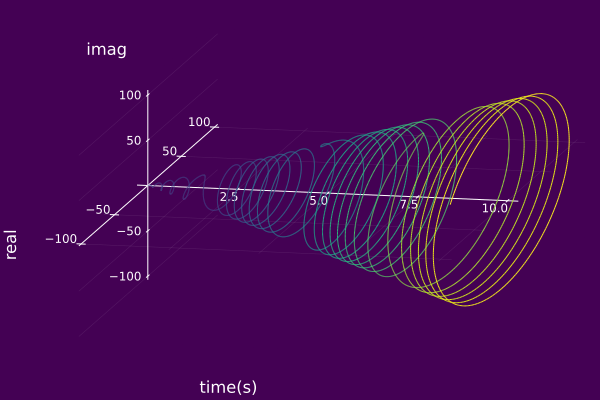
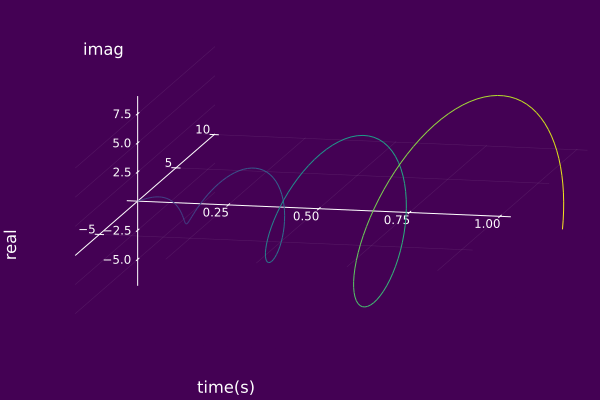
Fixed plot.md images

diff --git a/docs/src/recipes.md b/docs/src/recipes.md
@@ -32,6 +32,7 @@ The following is a list of some of the default parameters used in ISA plot recip
 | xguide           | "time(s)"     |
 | yguide           | "imag"        |
 | zguide           | "real"        |
+| ymirror          | true          |
 | background_color | cubeYF()[1]   |
 | foreground_color | :white        |
 | ymirror          | true          |
@@ -45,20 +46,19 @@ Below gives an example of setting a custom time-axis range.
 plot(ψ₀; timeaxis=0.0:0.001:10.0)
 ```
 ![](https://raw.githubusercontent.com/NMSU-ISA/ISA/master/docs/src/assets/costum0.png)
-[NEED TO FIX IMAGE ABOVE]
 
 ### Camera Position
 Below gives an example of setting a custom camera position.
 ```julia
-# change the time axis and camera angle
-plot(ψ₀; timeaxis=0.0:0.001:10.0, camera=(20,50))
+# change the camera angle
+plot(ψ₀, camera=(20,50))
 ```
 ![](https://raw.githubusercontent.com/NMSU-ISA/ISA/master/docs/src/assets/costum1.png)
 
 ### Labels
 Below is an example of modifying the axis label and location.
 ```julia
-plot(ψ₀; timeaxis=0.0:0.001:10.0, yguide="imaginary", ymirror=true)
+plot(ψ₀, yguide="imaginary", ymirror=false)
 ```
 ![](https://raw.githubusercontent.com/NMSU-ISA/ISA/master/docs/src/assets/costum2.png)
 
@@ -77,30 +77,28 @@ By default, the `plot()` function will show a 3D plot. However, the parameter `v
 
 An example of displaying the default 3D view associated with an `AMFMcomp` is given below.
 ```julia
-ψ₀ = AMFMcomp(t->t,t->25cos(t),0.0)
-plot(ψ₂, timeaxis=0.0:0.001:10.0)
+ψ₀ = AMFMcomp(t->10t,t->25cos(t),0.0)
+plot(ψ₀)
 ```
-![](https://raw.githubusercontent.com/NMSU-ISA/ISA/master/docs/src/assets/TRview.png)
+![](https://raw.githubusercontent.com/NMSU-ISA/ISA/master/docs/src/assets/default3d.png)
+
 An example of displaying the time-real plane associated with an `AMFMcomp` is given below.
 ```julia
-ψ₀ = AMFMcomp(t->t,t->25cos(t),0.0)
-plot(ψ₂, timeaxis=0.0:0.001:10.0,view="TR")
+plot(ψ₀,view="TR")
 ```
-![](https://raw.githubusercontent.com/NMSU-ISA/ISA/master/docs/src/assets/TRview.png)
+![](https://raw.githubusercontent.com/NMSU-ISA/ISA/master/docs/src/assets/TRview3d.png)
 
 An example of displaying the time-imaginary plane associated with an `AMFMcomp` is given below.
 ```julia
-ψ₀ = AMFMcomp(t->t,t->25cos(t),0.0)
-plot(ψ₂, timeaxis=0.0:0.001:10.0,view="TI")
+plot(ψ₀,view="TI")
 ```
-![](https://raw.githubusercontent.com/NMSU-ISA/ISA/master/docs/src/assets/TIview.png)
+![](https://raw.githubusercontent.com/NMSU-ISA/ISA/master/docs/src/assets/TIview3d.png)
 
 An example of displaying the real-imaginary plane associated with an `AMFMcomp` is given below.
 ```julia
-ψ₀ = AMFMcomp(t->t,t->25cos(t),0.0)
-plot(ψ₂, timeaxis=0.0:0.001:10.0,view="RI")
+plot(ψ₀, view="RI")
 ```
-![](https://raw.githubusercontent.com/NMSU-ISA/ISA/master/docs/src/assets/TIview.png)
+![](https://raw.githubusercontent.com/NMSU-ISA/ISA/master/docs/src/assets/RIview3d.png)
 
 
 ### Instantaneous Spectrum Views
@@ -114,8 +112,13 @@ plot(ψ₂, timeaxis=0.0:0.001:10.0,view="RI")
 
 An example of displaying the default 3D view associated with an `compSet` is given below.
 ```julia
-code
+𝐶₀ = AMFMtriplet(t->exp(-t^2),t->2.0,0.0)
+𝐶₁ = AMFMtriplet(t->1.0,t->10*t,0.1)
+𝐶₂ = AMFMtriplet(t->0.8*cos(2t),t->10 + 7.5*sin(t),π)
+𝑆 = compSet([𝐶₀,𝐶₁,𝐶₂])
+plot(𝑆)
 ```
+![](https://raw.githubusercontent.com/NMSU-ISA/ISA/master/docs/src/assets/defaultIS.png)
 
 An example of displaying the time-frequency plane associated with an `compSet` is given below.
 ```julia
